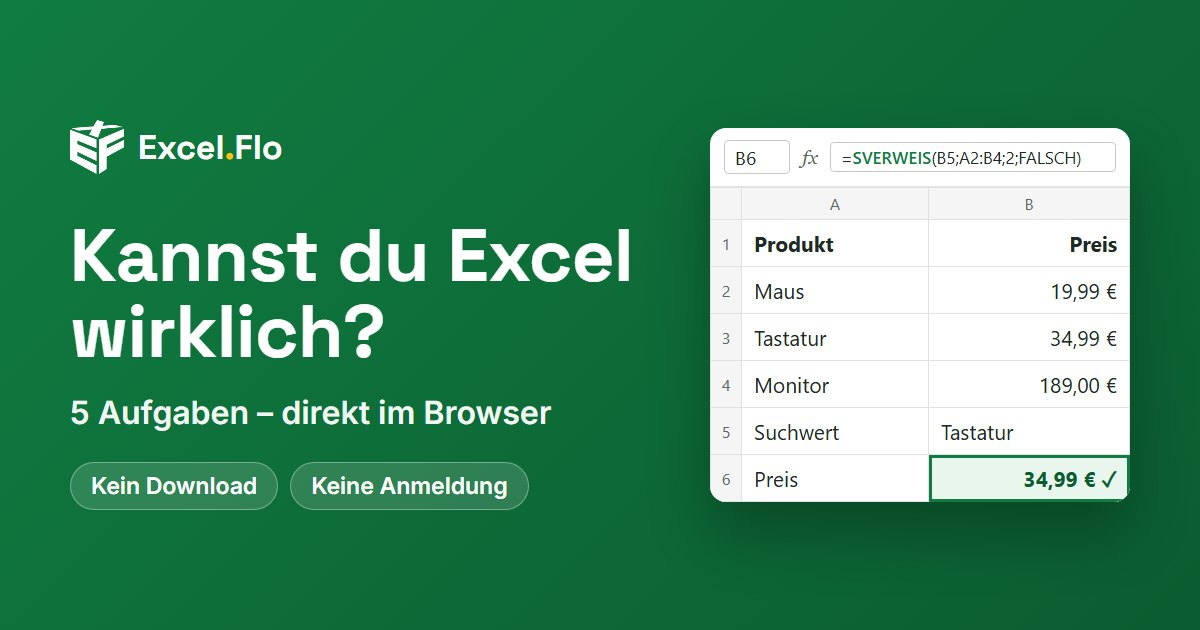
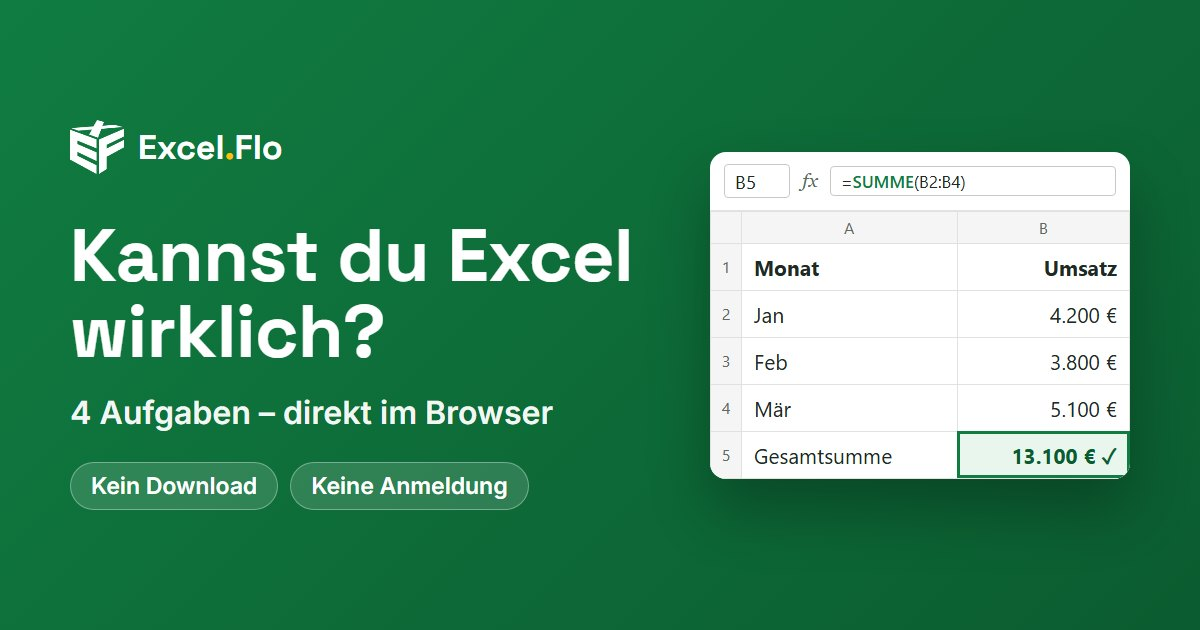
Vier statt fünf Aufgaben: SUMME, MITTELWERT, ANZAHL, Pivot
ZÄHLENWENN, SUMMEWENN und SVERWEIS entfallen; Anmeldebox steht jetzt vor der
Pivot-Aufgabe (nach Aufgabe 3). Texte, Vorschaubild und Tests auf vier Aufgaben,
Bonus-Hinweis auf die neuen 5 Bonus-Übungen. Auswertungen in kostenlos.sql
trennen alte und neue Besuche nach Aufgabe.

diff --git a/test/logik.test.js b/test/logik.test.js
@@ -21,14 +21,14 @@ function speicher(anfang) {
 
 test("Datendatei ist gültig", () => {
   assert.deepStrictEqual(L.pruefeDaten(daten), []);
-  assert.strictEqual(daten.aufgaben.length, 5);
-  assert.deepStrictEqual(daten.aufgaben.map((a) => a.typ), ["formel", "formel", "formel", "formel", "pivot"]);
+  assert.strictEqual(daten.aufgaben.length, 4);
+  assert.deepStrictEqual(daten.aufgaben.map((a) => a.typ), ["formel", "formel", "formel", "pivot"]);
 });
 
 test("pruefeDaten findet Fehler", () => {
   const kaputt = JSON.parse(JSON.stringify(daten));
   kaputt.aufgaben[1].id = kaputt.aufgaben[0].id;
-  kaputt.konfiguration.hinweisNachAufgabe = 5;
+  kaputt.konfiguration.hinweisNachAufgabe = 4;
   delete kaputt.konfiguration.datenschutzUrl;
   const p = L.pruefeDaten(kaputt);
   assert.ok(p.some((x) => x.includes("doppelt")));
@@ -36,10 +36,10 @@ test("pruefeDaten findet Fehler", () => {
   assert.ok(p.some((x) => x.includes("datenschutzUrl")));
 });
 
-test("neuer Besucher: Aufgabe 1 von 5, kein Angebot, kein Abschluss", () => {
+test("neuer Besucher: Aufgabe 1 von 4, kein Angebot, kein Abschluss", () => {
   const s = L.neuerStand();
   assert.strictEqual(L.aktuelleAufgabe(daten, s), 0);
-  assert.strictEqual(L.fortschrittText(daten, s), "Aufgabe 1 von 5");
+  assert.strictEqual(L.fortschrittText(daten, s), "Aufgabe 1 von 4");
   assert.strictEqual(L.hinweisSichtbar(daten, s), false);
   assert.strictEqual(L.abschluss(daten, s), null);
 });
@@ -53,7 +53,7 @@ test("Lösung erst nach einem Fehlversuch", () => {
   s = L.loesungAnzeigen(s, ids[0]);
   assert.strictEqual(L.aufgabeStatus(s, ids[0]).loesungAngezeigt, true);
   assert.strictEqual(L.istBearbeitet(s, ids[0]), true);
-  assert.strictEqual(L.fortschrittText(daten, s), "Aufgabe 2 von 5");
+  assert.strictEqual(L.fortschrittText(daten, s), "Aufgabe 2 von 4");
 });
 
 test("Stand wird nie verändert", () => {
@@ -72,13 +72,13 @@ test("richtig nach Lösung zählt als mitLoesung, erneutes Prüfen ändert nicht
   assert.strictEqual(L.pruefungErgebnis(s, ids[0], false), s);
 });
 
-test("Angebot erscheint nach Aufgabe 4, nicht vorher", () => {
+test("Angebot erscheint nach Aufgabe 3, nicht vorher", () => {
   let s = L.neuerStand();
-  for (let i = 0; i < 3; i++) s = L.pruefungErgebnis(s, ids[i], true);
+  for (let i = 0; i < 2; i++) s = L.pruefungErgebnis(s, ids[i], true);
   assert.strictEqual(L.hinweisSichtbar(daten, s), false);
-  s = L.pruefungErgebnis(s, ids[3], true);
+  s = L.pruefungErgebnis(s, ids[2], true);
   assert.strictEqual(L.hinweisSichtbar(daten, s), true);
-  assert.strictEqual(L.fortschrittText(daten, s), "Aufgabe 5 von 5");
+  assert.strictEqual(L.fortschrittText(daten, s), "Aufgabe 4 von 4");
   assert.strictEqual(L.abschluss(daten, s), null);
 });
 
@@ -86,20 +86,20 @@ test("Abschluss: alle selbst gelöst", () => {
   let s = L.neuerStand();
   ids.forEach((id) => { s = L.pruefungErgebnis(s, id, true); });
   const a = L.abschluss(daten, s);
-  assert.strictEqual(a.ergebnis, "Du hast 5 von 5 Aufgaben selbst gelöst.");
+  assert.strictEqual(a.ergebnis, "Du hast 4 von 4 Aufgaben selbst gelöst.");
   assert.strictEqual(a.zusatz, null);
-  assert.strictEqual(L.fortschrittText(daten, s), "Aufgabe 5 von 5");
+  assert.strictEqual(L.fortschrittText(daten, s), "Aufgabe 4 von 4");
 });
 
 test("Abschluss: zwei Lösungen angesehen (eine davon danach gelöst)", () => {
   let s = L.neuerStand();
-  ids.forEach((id) => { s = L.pruefungErgebnis(s, id, id === ids[1] || id === ids[4] ? false : true); });
+  ids.forEach((id) => { s = L.pruefungErgebnis(s, id, id === ids[1] || id === ids[3] ? false : true); });
   s = L.loesungAnzeigen(s, ids[1]);
-  s = L.loesungAnzeigen(s, ids[4]);
-  s = L.pruefungErgebnis(s, ids[4], true);
+  s = L.loesungAnzeigen(s, ids[3]);
+  s = L.pruefungErgebnis(s, ids[3], true);
   const a = L.abschluss(daten, s);
-  assert.strictEqual(a.selbst, 3);
-  assert.strictEqual(a.ergebnis, "Du hast 3 von 5 Aufgaben selbst gelöst.");
+  assert.strictEqual(a.selbst, 2);
+  assert.strictEqual(a.ergebnis, "Du hast 2 von 4 Aufgaben selbst gelöst.");
   assert.strictEqual(a.zusatz, "Bei 2 hast du dir die Lösung angesehen.");
 });
 
@@ -110,7 +110,7 @@ test("Speichern und Laden (Wiederkehrer)", () => {
   L.speichereStand(st, s);
   const geladen = L.ladeStand(st, daten);
   assert.deepStrictEqual(geladen, s);
-  assert.strictEqual(L.fortschrittText(daten, geladen), "Aufgabe 2 von 5");
+  assert.strictEqual(L.fortschrittText(daten, geladen), "Aufgabe 2 von 4");
 });
 
 test("Laden: kaputter, alter oder fremder Stand ergibt neuen Stand", () => {

diff --git a/index.html b/index.html
@@ -3,8 +3,8 @@
 <head>
 <meta charset="UTF-8">
 <meta name="viewport" content="width=device-width, initial-scale=1.0">
-<title>Kannst du Excel wirklich? – 5 kostenlose Excel-Übungen | Excel.Flo</title>
-<meta name="description" content="Fünf interaktive Excel-Aufgaben direkt im Browser: SUMME, ZÄHLENWENN, SUMMEWENN, SVERWEIS und Pivot-Tabellen. Kein Download, keine Anmeldung.">
+<title>Kannst du Excel wirklich? – 4 kostenlose Excel-Übungen | Excel.Flo</title>
+<meta name="description" content="Vier interaktive Excel-Aufgaben direkt im Browser: SUMME, MITTELWERT, ANZAHL und Pivot-Tabellen. Kein Download, keine Anmeldung.">
 <!-- Adresse und Texte hier fest, weil Suchmaschinen und Link-Vorschauen (WhatsApp, LinkedIn,
      Facebook …) kein JavaScript ausführen. test/texte.test.js prüft den Abgleich mit
      daten/aufgaben.json (konfiguration.seitenUrl, texte.og…). -->
@@ -15,18 +15,18 @@
 <meta property="og:locale" content="de_DE">
 <meta property="og:site_name" content="Excel.Flo">
 <meta property="og:url" content="https://florianbeil.github.io/Excel-Uebungen-kostenlos/">
-<meta property="og:title" content="Kannst du Excel wirklich? 5 Aufgaben zum Ausprobieren">
+<meta property="og:title" content="Kannst du Excel wirklich? 4 Aufgaben zum Ausprobieren">
 <meta property="og:description" content="Interaktive Excel-Übungen direkt im Browser – von SUMME bis Pivot-Tabelle. Kein Download, keine Anmeldung.">
 <meta property="og:image" content="https://florianbeil.github.io/Excel-Uebungen-kostenlos/assets/og-bild.jpg">
 <meta property="og:image:type" content="image/jpeg">
 <meta property="og:image:width" content="1200">
 <meta property="og:image:height" content="630">
-<meta property="og:image:alt" content="Excel.Flo: Kannst du Excel wirklich? Fünf Excel-Aufgaben direkt im Browser, kein Download, keine Anmeldung.">
+<meta property="og:image:alt" content="Excel.Flo: Kannst du Excel wirklich? Vier Excel-Aufgaben direkt im Browser, kein Download, keine Anmeldung.">
 <meta name="twitter:card" content="summary_large_image">
-<meta name="twitter:title" content="Kannst du Excel wirklich? 5 Aufgaben zum Ausprobieren">
+<meta name="twitter:title" content="Kannst du Excel wirklich? 4 Aufgaben zum Ausprobieren">
 <meta name="twitter:description" content="Interaktive Excel-Übungen direkt im Browser – von SUMME bis Pivot-Tabelle. Kein Download, keine Anmeldung.">
 <meta name="twitter:image" content="https://florianbeil.github.io/Excel-Uebungen-kostenlos/assets/og-bild.jpg">
-<meta name="twitter:image:alt" content="Excel.Flo: Kannst du Excel wirklich? Fünf Excel-Aufgaben direkt im Browser, kein Download, keine Anmeldung.">
+<meta name="twitter:image:alt" content="Excel.Flo: Kannst du Excel wirklich? Vier Excel-Aufgaben direkt im Browser, kein Download, keine Anmeldung.">
 <link rel="icon" type="image/svg+xml" href="assets/geteilt/img/logo.svg">
 <link rel="preconnect" href="https://fonts.googleapis.com">
 <link rel="preconnect" href="https://fonts.gstatic.com" crossorigin>
@@ -53,7 +53,7 @@
        sie sofort und auch ohne JavaScript (Suchmaschinen, Link-Vorschauen) da sind. -->
   <section class="frei-start" aria-labelledby="seiten-titel">
     <h1 id="seiten-titel">Kannst du Excel wirklich?</h1>
-    <p class="frei-start__text">Fünf Aufgaben, direkt im Browser. Kein Download, keine Anmeldung.</p>
+    <p class="frei-start__text">Vier Aufgaben, direkt im Browser. Kein Download, keine Anmeldung.</p>
     <p class="frei-start__fortschritt" id="fortschritt" aria-live="polite"></p>
   </section>
 

diff --git a/skripte/og-bild.html b/skripte/og-bild.html
@@ -44,19 +44,18 @@
   <div class="text">
     <div class="marke"><img src="../assets/geteilt/img/logo-white.webp" alt=""><span>Excel<span class="punkt">.</span>Flo</span></div>
     <h1>Kannst du Excel wirklich?</h1>
-    <p class="unter">5 Aufgaben – direkt im Browser</p>
+    <p class="unter">4 Aufgaben – direkt im Browser</p>
     <div class="fakten"><span>Kein Download</span><span>Keine Anmeldung</span></div>
   </div>
   <div class="blatt" aria-hidden="true">
-    <div class="leiste"><span class="namenfeld">B6</span><span class="fx">fx</span><span class="formel">=<b>SVERWEIS</b>(B5;A2:B4;2;FALSCH)</span></div>
+    <div class="leiste"><span class="namenfeld">B5</span><span class="fx">fx</span><span class="formel">=<b>SUMME</b>(B2:B4)</span></div>
     <table>
       <tr><th></th><th>A</th><th>B</th></tr>
-      <tr><td class="nr">1</td><td class="kopf">Produkt</td><td class="kopf zahl">Preis</td></tr>
-      <tr><td class="nr">2</td><td>Maus</td><td class="zahl">19,99 €</td></tr>
-      <tr><td class="nr">3</td><td>Tastatur</td><td class="zahl">34,99 €</td></tr>
-      <tr><td class="nr">4</td><td>Monitor</td><td class="zahl">189,00 €</td></tr>
-      <tr><td class="nr">5</td><td>Suchwert</td><td>Tastatur</td></tr>
-      <tr><td class="nr">6</td><td>Preis</td><td class="ziel">34,99 € ✓</td></tr>
+      <tr><td class="nr">1</td><td class="kopf">Monat</td><td class="kopf zahl">Umsatz</td></tr>
+      <tr><td class="nr">2</td><td>Jan</td><td class="zahl">4.200 €</td></tr>
+      <tr><td class="nr">3</td><td>Feb</td><td class="zahl">3.800 €</td></tr>
+      <tr><td class="nr">4</td><td>Mär</td><td class="zahl">5.100 €</td></tr>
+      <tr><td class="nr">5</td><td>Gesamtsumme</td><td class="ziel">13.100 € ✓</td></tr>
     </table>
   </div>
 </body>

diff --git a/assets/seite/seite.js b/assets/seite/seite.js
@@ -1,6 +1,6 @@
 /* Excel.Flo – kostenlose Übungen: Bildschirmaufbau
  *
- * Baut die fünf Aufgaben untereinander auf, dazwischen (nach Aufgabe 4) den
+ * Baut die vier Aufgaben untereinander auf, dazwischen (vor der Pivot-Aufgabe) den
  * Hinweis auf die Bonus-Übungen, darunter den Abschluss mit dem Klick-Tipp-Formular
  * (Vorname + E-Mail → Double-Opt-in → Mail mit dem Link zu den Bonus-Übungen). Dasselbe
  * Formular gibt es aufklappbar im Hinweis für Smartphones. Webinar und Kurs werden auf
@@ -24,7 +24,7 @@
  *   exercise_solved  Aufgabe gelöst         mit_loesung
  *   solution_show    Lösung angezeigt
  *   hints_open       Tipps aufgeklappt
- *   teaser_view      Hinweis auf das Light-Portal nach Aufgabe 4 im Bild
+ *   teaser_view      Hinweis auf die Bonus-Übungen (nach Aufgabe 3) im Bild
  *   form_view        Formular gesehen       ort: hinweis | abschluss | mobil (mobil = aufgeklappt)
  *   form_submit      Formular abgesendet    ort: hinweis | abschluss | mobil (vor der Weiterleitung zu Klick-Tipp)
  */
@@ -410,7 +410,7 @@
 
   /* ---------------- Light-Portal: Hinweis, Formular, Abschluss ---------------- */
 
-  // Nach Aufgabe 4: derselbe Anmeldeblock wie im Abschluss, damit niemand bis ganz
+  // Vor der letzten Aufgabe: derselbe Anmeldeblock wie im Abschluss, damit niemand bis ganz
   // nach unten scrollen muss. Wer durchzieht, findet ihn unten noch einmal.
   function hinweisBauen() {
     const t = daten.texte;

diff --git a/assets/seite/logik.js b/assets/seite/logik.js
@@ -118,7 +118,7 @@
     return platzhalter(daten.texte.fortschritt, { nr: idx === null ? gesamt : idx + 1, gesamt });
   }
 
-  // Hinweis auf die Bonus-Übungen erscheint, sobald die ersten N Aufgaben (Standard 4) bearbeitet sind.
+  // Hinweis auf die Bonus-Übungen erscheint, sobald die ersten N Aufgaben (konfiguration.hinweisNachAufgabe) bearbeitet sind.
   function hinweisSichtbar(daten, stand) {
     const n = daten.konfiguration.hinweisNachAufgabe;
     return daten.aufgaben.slice(0, n).every((a) => istBearbeitet(stand, a.id));

diff --git a/README.md b/README.md
@@ -1,8 +1,8 @@
 # Excel.Flo – kostenlose Übungen
 
-Öffentliche Seite mit fünf frei nutzbaren Excel-Übungen für Interessenten des
+Öffentliche Seite mit vier frei nutzbaren Excel-Übungen für Interessenten des
 Excel Master Kurses. Einziges Angebot der Seite: die kostenlosen Bonus-Übungen
-([Excel-Uebungsportal-Light](https://github.com/FlorianBeil/Excel-Uebungsportal-Light)) – nach Aufgabe 5
+([Excel-Uebungsportal-Light](https://github.com/FlorianBeil/Excel-Uebungsportal-Light)) – nach Aufgabe 3, am Ende
 (und aufklappbar im Handy-Hinweis) per Klick-Tipp-Formular (Vorname + E-Mail, Double-Opt-in),
 Klick-Tipp schickt danach den Link. Webinar und Kurs werden hier bewusst nicht beworben.
 
@@ -15,7 +15,7 @@ eigenes Deployment. Das Portal verlinkt nie hierher, diese Seite enthält alle W
 | Pfad | Inhalt |
 |---|---|
 | `index.html` | Einstiegsseite (Titel, Meta-/Vorschau-Angaben fest im HTML) |
-| `daten/aufgaben.json` | Die fünf Aufgaben, alle Texte und die Konfiguration (Impressum-, Datenschutz- und Seitenadresse, Klick-Tipp-Formular) |
+| `daten/aufgaben.json` | Die vier Aufgaben, alle Texte und die Konfiguration (Impressum-, Datenschutz- und Seitenadresse, Klick-Tipp-Formular) |
 | `danke.html` | Bestätigungsseite nach dem Formular („bitte E-Mail bestätigen“) – in Klick-Tipp als Weiterleitung eintragen |
 | `assets/seite/` | `logik.js` (Ablauf ohne Bildschirm, getestet), `seite.js` (Anzeige, Tracking), `seite.css` |
 | `pivot.html` | Pivot-Nachbau, per iframe eingebunden – **erzeugt**, nicht von Hand ändern |
